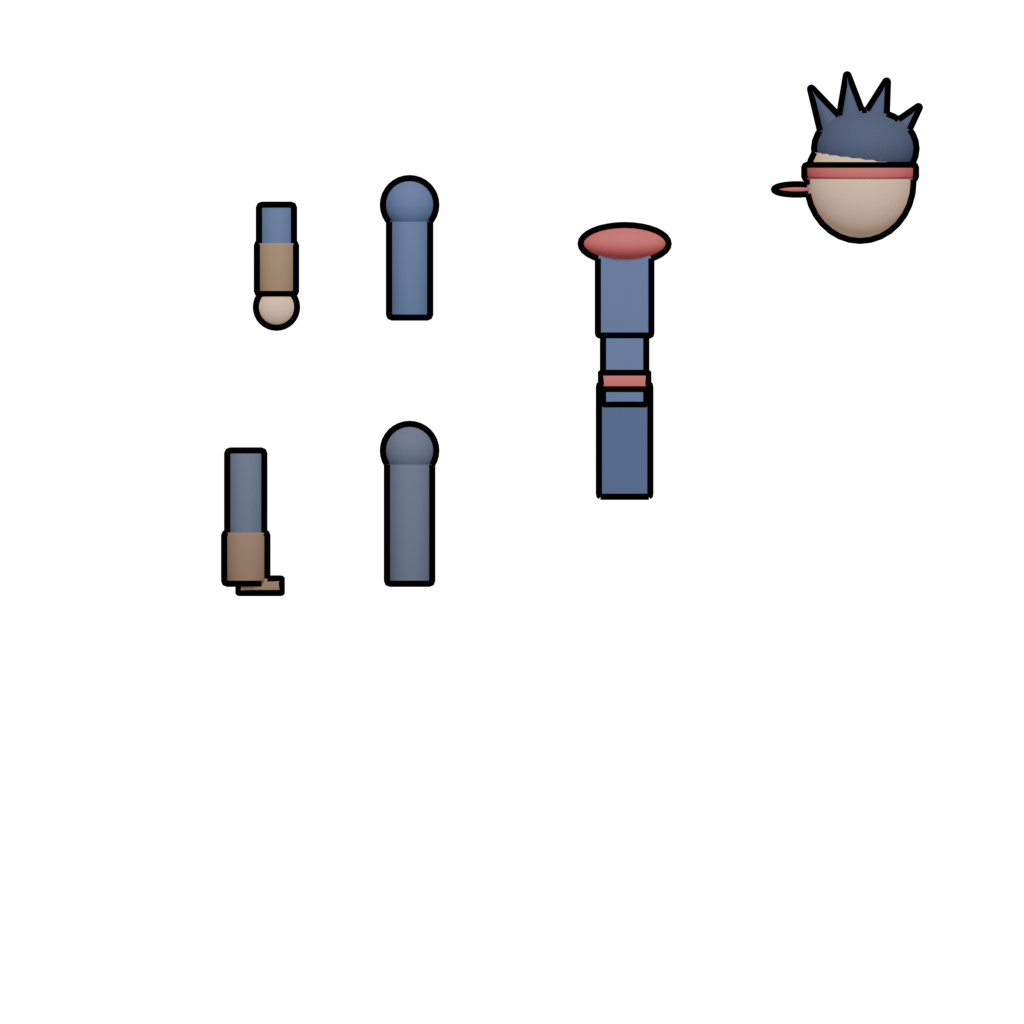
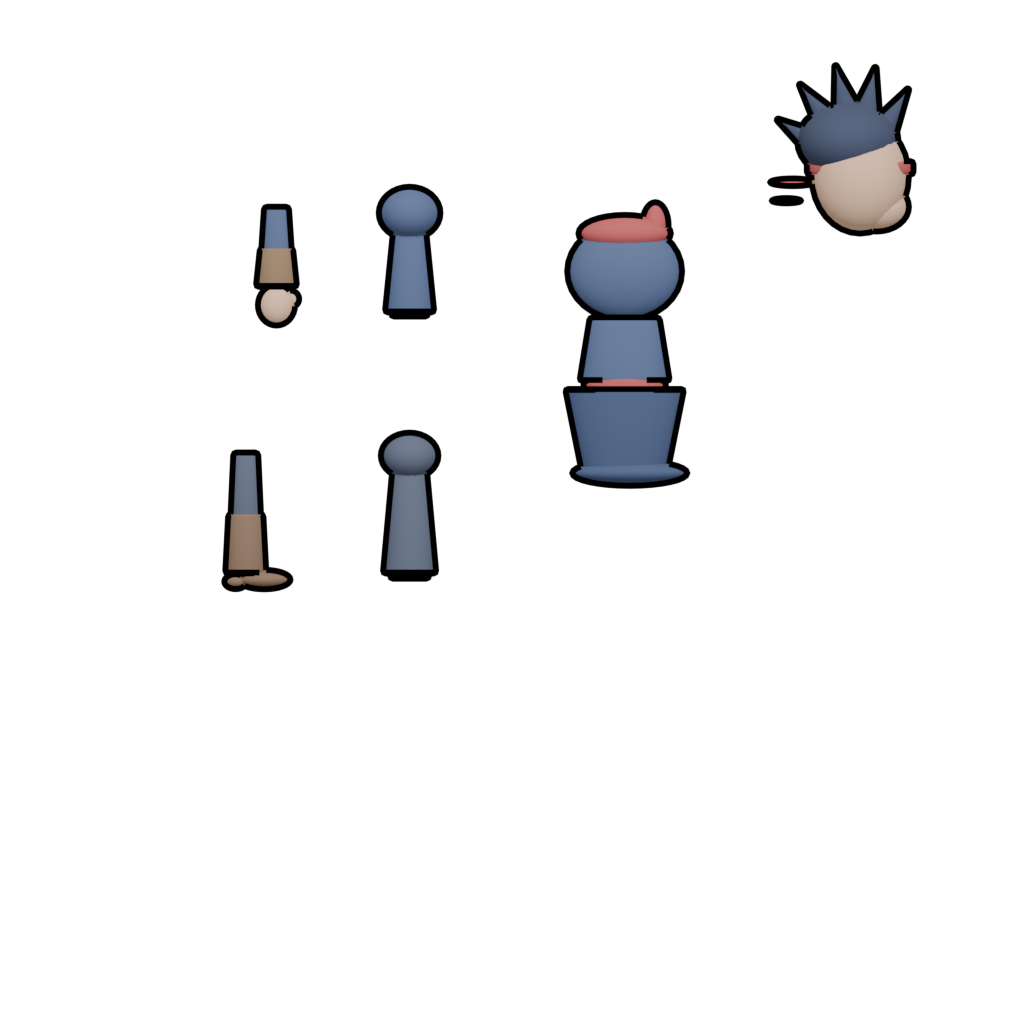
Blender-Modell v2: konische Gliedmaßen, Gelenk-verdeckende Säume, geformter Torso, echter Kopf mit Gesicht

diff --git a/src/puppe.js b/src/puppe.js
@@ -8,8 +8,8 @@ import { ladeBild } from './bilder.js';
 // Quell-Koordinaten im Blender-Teileblatt (vom Render-Skript exakt berechnet —
 // jedes Teil liegt einzeln auf transparentem Grund, keine Nachbar-Reste)
 const JURO_TEILE = {
-  kopf:       { x: 742, y: 82,  w: 236, h: 184, von: [860, 241], bis: [860, 108] },
-  torso:      { x: 527, y: 200, w: 195, h: 235, von: [625, 246], bis: [625, 389] },
+  kopf:       { x: 737, y: 82,  w: 246, h: 184, von: [860, 241], bis: [860, 108] },
+  torso:      { x: 522, y: 195, w: 205, h: 245, von: [625, 246], bis: [625, 389] },
   oberarm:    { x: 358, y: 179, w: 103, h: 164, von: [410, 205], bis: [410, 317] },
   unterarm:   { x: 230, y: 179, w: 93,  h: 154, von: [276, 205], bis: [276, 307] },
   schenkel:   { x: 358, y: 425, w: 103, h: 184, von: [410, 451], bis: [410, 584] },

diff --git a/tools/blender-juro.py b/tools/blender-juro.py
@@ -105,13 +105,21 @@ def kegel(x, z, r, laenge, mat, neigung=0.0):
     setze(o, mat)
     return o
 
+def stumpf(x, z_oben, r_oben, z_unten, r_unten, mat, sy=0.8):
+    """Konisches Gliedmaßen-Stück: oben dick, zum Gelenk schlank — kein Röhren-Look"""
+    mitte = (z_oben + z_unten) / 2
+    laenge = abs(z_oben - z_unten)
+    bpy.ops.mesh.primitive_cone_add(radius1=r_oben, radius2=r_unten, depth=laenge, location=(x, 0, mitte), vertices=24)
+    o = bpy.context.object
+    o.scale[1] = sy
+    setze(o, mat)
+    return o
+
 # ---------- Teile bauen (jedes in eigener Zelle, Anker = oben/unten) ----------
 TEILE = {}
 
 def anker(name, x, z_oben, z_unten, halbbreite, rand=0.25):
-    """Pixel-Rechteck + Anker für puppe.js berechnen"""
     def px(wx):
-        # Kamera spiegelt X: Welt +X erscheint im Bild links
         return round(512 - wx * PX_PRO_EINHEIT)
     def py(wz):
         return round(512 - wz * PX_PRO_EINHEIT)
@@ -122,51 +130,59 @@ def anker(name, x, z_oben, z_unten, halbbreite, rand=0.25):
         'von': [px(x), py(z_oben)], 'bis': [px(x), py(z_unten)],
     }
 
-# Kopf (mit Haarzacken + Stirnband), Anker: Hals → Scheitel
+# ---- Kopf: Schädel + Kiefer + Ohr + Haarschopf + Stirnband ----
 KX, KZ = -3.4, 2.6
-kugel(KX, KZ + 0.62, 0.52, HAUT, sz=1.1)
-kugel(KX - 0.05, KZ + 0.95, 0.5, HAAR, sz=0.75)       # Haarkappe
-for i, (dx, dz, neig) in enumerate([(-0.4, 1.15, -0.7), (-0.18, 1.35, -0.3), (0.1, 1.4, 0.1), (0.35, 1.3, 0.5)]):
-    kegel(KX + dx, KZ + dz, 0.16, 0.55, HAAR, neigung=neig)
-zylinder(KX, KZ + 0.72, 0.545, 0.14, ROT)             # Stirnband
-kugel(KX + 0.62, KZ + 0.55, 0.1, ROT, sx=2.2, sz=0.5) # Band weht nach hinten (Bild: links)
-anker('kopf', KX, KZ + 1.35, KZ + 0.05, 1.15)
-# Kopf-Anker drehen: von = Hals (unten) → bis = Scheitel (oben)
+kugel(KX, KZ + 0.68, 0.5, HAUT, sx=0.95, sz=1.12)          # Schädel
+kugel(KX - 0.16, KZ + 0.38, 0.3, HAUT, sx=1.05, sz=0.8)    # Kiefer (vorn = Bild rechts)
+kugel(KX + 0.3, KZ + 0.6, 0.09, HAUT, sx=0.5, sz=0.9)      # Ohr
+kugel(KX + 0.12, KZ + 1.02, 0.52, HAAR, sx=0.95, sz=0.72)  # Haarkappe (nach hinten)
+for dx, dz, neig in [(-0.34, 1.32, -0.55), (-0.1, 1.5, -0.2), (0.18, 1.52, 0.25), (0.44, 1.38, 0.65), (0.6, 1.1, 1.0)]:
+    kegel(KX + dx, KZ + dz, 0.15, 0.5, HAAR, neigung=neig)
+zylinder(KX, KZ + 0.76, 0.52, 0.13, ROT, sy=0.8)           # Stirnband
+kugel(KX + 0.66, KZ + 0.62, 0.09, ROT, sx=2.4, sz=0.4)     # Band-Enden wehen nach hinten
+kugel(KX + 0.72, KZ + 0.44, 0.07, ROT, sx=2.0, sz=0.35)
+anker('kopf', KX, KZ + 1.35, KZ + 0.05, 1.2)
 TEILE['kopf']['von'], TEILE['kopf']['bis'] = TEILE['kopf']['bis'], TEILE['kopf']['von']
 
-# Torso mit Mantel (Anker: Schulter → Hüfte; Mantel hängt tiefer)
+# ---- Torso: geformte Brust, Taille, Mantel mit schrägem Saum, Schal, Schulterkappe ----
 TX, TZ = -1.1, 2.9
-quader(TX, TZ - 0.75, 0.52, 0.3, 0.85, JACKE)          # Brustkorb
-quader(TX, TZ - 1.5, 0.42, 0.26, 0.7, JACKE)           # Bauch
-quader(TX, TZ - 1.62, 0.46, 0.28, 0.16, ROT)           # Gürtel
-quader(TX, TZ - 2.2, 0.5, 0.24, 1.1, MANTEL)           # Mantel-Schoß
-kugel(TX, TZ - 0.28, 0.33, ROT, sx=1.3, sy=0.9, sz=0.55)  # Schal
-anker('torso', TX, TZ - 0.3, TZ - 1.7, 0.95, rand=0.45)
+kugel(TX, TZ - 0.55, 0.56, JACKE, sx=1.0, sy=0.55, sz=0.85)   # Brustkorb (geformt)
+stumpf(TX, TZ - 1.0, 0.44, TZ - 1.62, 0.34, JACKE, sy=0.55)   # Taille (verjüngt)
+zylinder(TX, TZ - 1.66, 0.4, 0.16, ROT, sy=0.6)               # Gürtel
+stumpf(TX, TZ - 1.7, 0.42, TZ - 2.5, 0.58, MANTEL, sy=0.5)    # Mantel flared
+k = kugel(TX - 0.05, TZ - 2.52, 0.56, MANTEL, sx=1.0, sy=0.48, sz=0.22)  # Saum-Schwung
+kugel(TX, TZ - 0.18, 0.36, ROT, sx=1.25, sy=0.8, sz=0.5)      # Schal
+kugel(TX - 0.3, TZ - 0.1, 0.16, ROT, sx=0.8, sz=1.4)          # Schal-Knoten vorn
+anker('torso', TX, TZ - 0.3, TZ - 1.7, 1.0, rand=0.5)
 
-# Oberarm (Schulter → Ellbogen)
+# ---- Oberarm: Schulterkappe + konischer Ärmel + Ellbogenbund ----
 AX, AZ = 1.0, 3.0
-kugel(AX, AZ, 0.26, JACKE)
-zylinder(AX, AZ - 0.55, 0.2, 1.1, JACKE)
+kugel(AX, AZ - 0.08, 0.3, JACKE, sz=0.85)                 # Schulterkappe (deckt Ansatz)
+stumpf(AX, AZ - 0.15, 0.24, AZ - 1.05, 0.15, JACKE)       # Ärmel konisch
+zylinder(AX, AZ - 1.02, 0.18, 0.14, MANTEL, sy=0.8)       # Ärmelbund (deckt Ellbogen)
 anker('oberarm', AX, AZ, AZ - 1.1, 0.5)
 
-# Unterarm mit Armschiene + Faust (Ellbogen → Hand)
+# ---- Unterarm: konisch + Armschiene + Faust mit Daumen ----
 UX, UZ = 2.3, 3.0
-zylinder(UX, UZ - 0.4, 0.17, 0.8, JACKE)
-zylinder(UX, UZ - 0.62, 0.19, 0.5, BRAUN)              # Armschiene
-kugel(UX, UZ - 1.0, 0.2, HAUT)                         # Faust
+stumpf(UX, UZ - 0.02, 0.17, UZ - 0.78, 0.12, JACKE)
+stumpf(UX, UZ - 0.42, 0.2, UZ - 0.8, 0.16, BRAUN)          # Armschiene
+kugel(UX, UZ - 0.98, 0.18, HAUT, sz=1.1)                   # Faust
+kugel(UX - 0.14, UZ - 0.92, 0.08, HAUT)                    # Daumen
 anker('unterarm', UX, UZ, UZ - 1.0, 0.45)
 
-# Oberschenkel (Hüfte → Knie)
+# ---- Oberschenkel: konisch, Kniebund ----
 SX, SZ = 1.0, 0.6
-kugel(SX, SZ, 0.26, HOSE)
-zylinder(SX, SZ - 0.65, 0.22, 1.3, HOSE)
+kugel(SX, SZ - 0.05, 0.28, HOSE, sz=0.8)
+stumpf(SX, SZ - 0.1, 0.26, SZ - 1.2, 0.16, HOSE)
+zylinder(SX, SZ - 1.18, 0.19, 0.14, HOSE, sy=0.8)          # Hosensaum deckt Knie
 anker('schenkel', SX, SZ, SZ - 1.3, 0.5)
 
-# Unterschenkel + Stiefel (Knie → Ferse)
+# ---- Unterschenkel + Stiefel mit Ferse ----
 BX, BZ = 2.6, 0.6
-zylinder(BX, BZ - 0.5, 0.18, 1.0, HOSE)
-zylinder(BX, BZ - 1.05, 0.21, 0.5, STIEFEL)            # Schaft
-quader(BX - 0.14, BZ - 1.32, 0.42, 0.2, 0.14, STIEFEL) # Fußspitze nach vorn (Bild: rechts)
+stumpf(BX, BZ - 0.02, 0.15, BZ - 0.68, 0.12, HOSE)
+stumpf(BX, BZ - 0.62, 0.2, BZ - 1.2, 0.17, STIEFEL)        # Schaft (Saum oben breiter)
+kugel(BX - 0.18, BZ - 1.26, 0.17, STIEFEL, sx=1.5, sz=0.55)  # Fußspitze (Bild: rechts)
+kugel(BX + 0.1, BZ - 1.28, 0.12, STIEFEL, sx=0.9, sz=0.6)    # Ferse
 anker('schienbein', BX, BZ, BZ - 1.3, 0.55)
 
 # ---------- Rendern ----------
